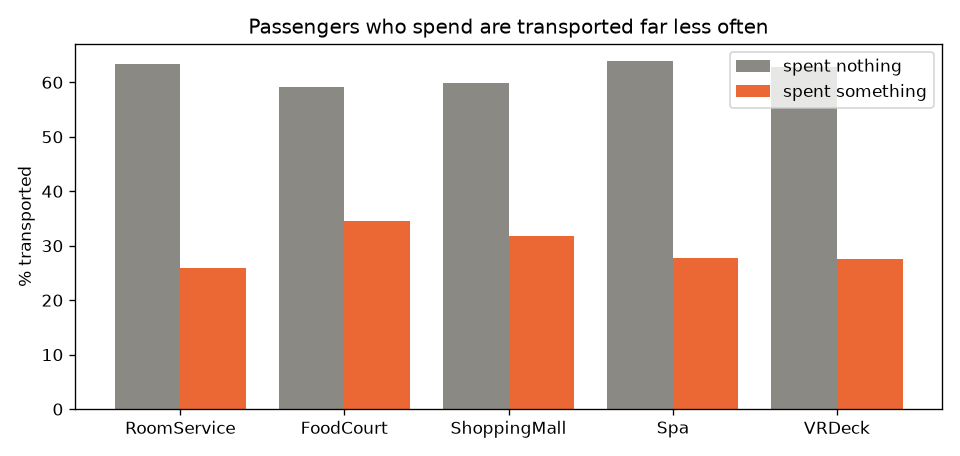
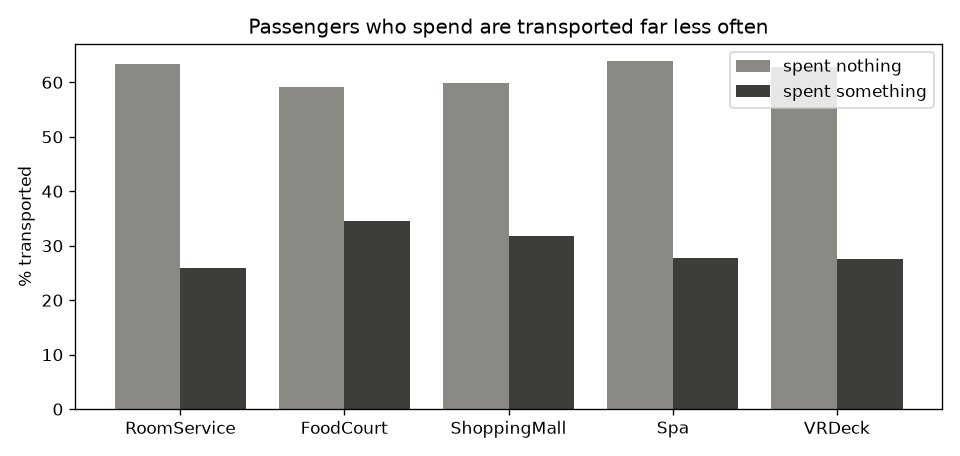
feat(role2): add 01_explore.py EDA with charts and findings
Eight sections, each printing a conclusion and saving a numbered chart;
conclusions saved to results/eda_findings.txt. Confirms 0 travel groups
shared between train and test (GroupKFold rule).

diff --git a/01_explore.py b/01_explore.py
@@ -15,10 +15,12 @@ import numpy as np
 import pandas as pd
 
 from src.config import ID_COL, PLOT_DIR, RESULTS_DIR, SEED, TARGET, TEST_PATH, TRAIN_PATH
+# Shared with features.py so the EDA evidence and the features can't drift apart.
+from src.features import CHILD_AGE, SPEND_COLUMNS
 
 # Team colours (CLAUDE.md rule 8), used the same way in every chart.
 BLUE, ORANGE, GREY = "#2a78d6", "#eb6834", "#8a8984"  # transported / not / neutral
-SPEND_COLS = ["RoomService", "FoodCourt", "ShoppingMall", "Spa", "VRDeck"]
+DARK = "#3d3d3a"  # second neutral, for comparisons that aren't about the target
 CATEGORY_COLS = ["HomePlanet", "CryoSleep", "Destination", "VIP"]
 MIN_GROUP = 30  # categories smaller than this are too noisy to rank
 
@@ -98,7 +100,7 @@ def missing_values(train, test):
     fig, ax = plt.subplots(figsize=(8, 4))
     x = np.arange(len(cols))
     ax.bar(x - 0.2, miss["train_%"], 0.4, color=GREY, label="train")
-    ax.bar(x + 0.2, miss["test_%"], 0.4, color=BLUE, label="test")
+    ax.bar(x + 0.2, miss["test_%"], 0.4, color=DARK, label="test")
     ax.set_xticks(x, cols, rotation=45, ha="right")
     ax.set_ylabel("% missing")
     ax.set_ylim(0, miss[["train_%", "test_%"]].max().max() * 1.3)  # room for the legend
@@ -121,32 +123,43 @@ def data_quality(train, test):
     both = pd.concat([train.drop(columns=TARGET), test])
     dup_rows = train.drop(columns=ID_COL).duplicated().sum()
     dup_ids = both[ID_COL].duplicated().sum()
-    neg = (both[SPEND_COLS] < 0).sum().sum()
+    neg = (both[SPEND_COLUMNS] < 0).sum().sum()
     print(f"duplicate rows (ignoring ID) in train: {dup_rows}; duplicate IDs across files: {dup_ids}")
     print(f"negative spending values: {neg}")
     print(f"age range: {both['Age'].min():.0f}-{both['Age'].max():.0f}, "
           f"age 0: {(both['Age'] == 0).sum()} passengers")
 
-    spend = both[SPEND_COLS].sum(axis=1, min_count=1)
+    # The rules are found on train alone; test only confirms they hold there too.
+    def rule_counts(df):
+        spend = df[SPEND_COLUMNS].sum(axis=1, min_count=1)
+        asleep, kids = df["CryoSleep"] == True, df["Age"] < CHILD_AGE  # noqa: E712 (NaN too)
+        return {"asleep": asleep.sum(), "asleep_spent": (asleep & (spend > 0)).sum(),
+                "kids": kids.sum(), "kids_spent": (kids & (spend > 0)).sum(),
+                "youngest_spender": df.loc[spend > 0, "Age"].min()}
+    tr, te = rule_counts(train), rule_counts(test)
+    print(f"train: CryoSleep=True {tr['asleep']:,}, of whom spent: {tr['asleep_spent']}; "
+          f"under {CHILD_AGE}: {tr['kids']:,}, of whom spent: {tr['kids_spent']}; "
+          f"youngest spender aged {tr['youngest_spender']:.0f}")
+    print(f"test (confirmation): CryoSleep=True {te['asleep']:,}, spent: {te['asleep_spent']}; "
+          f"under {CHILD_AGE}: {te['kids']:,}, spent: {te['kids_spent']}")
+
+    spend = both[SPEND_COLUMNS].sum(axis=1, min_count=1)
     cryo = both["CryoSleep"]
     cryo_spend = ((cryo == True) & (spend > 0)).sum()
     cryo_n = (cryo == True).sum()
     awake_zero = (spend.loc[cryo == False] == 0).mean()
-    kids = both["Age"] < 13
-    kid_spend = (both.loc[kids, SPEND_COLS] > 0).any(axis=1).sum()
-    # Rows whose gaps the logical rules below could fill.
+    kids = both["Age"] < CHILD_AGE
+    # Rows whose gaps the logical rules could fill.
     cryo_fill = (cryo.isna() & (spend > 0)).sum()
-    spend_fill = ((cryo == True) | kids).loc[both[SPEND_COLS].isna().any(axis=1)].sum()
-    print(f"CryoSleep=True passengers: {cryo_n:,}, of whom spent anything: {cryo_spend}")
+    spend_fill = ((cryo == True) | kids).loc[both[SPEND_COLUMNS].isna().any(axis=1)].sum()
     print(f"awake passengers who spent nothing: {awake_zero:.1%}")
-    print(f"children under 13: {kids.sum():,}, of whom spent anything: {kid_spend}")
     print(f"missing CryoSleep with spending > 0: {cryo_fill}; "
-          f"rows with a missing spend column that are asleep or under 13: {spend_fill}")
+          f"rows with a missing spend column that are asleep or under {CHILD_AGE}: {spend_fill}")
 
     fig, ax = plt.subplots(figsize=(6, 3.5))
     groups = {"CryoSleep": both.loc[cryo == True], "Awake": both.loc[cryo == False]}
     shares = [(spend.loc[g.index] > 0).mean() * 100 for g in groups.values()]
-    ax.bar(list(groups), shares, color=[GREY, BLUE])
+    ax.bar(list(groups), shares, color=[GREY, DARK])
     ax.set_ylabel("% who spent anything")
     ax.set_title(f"Nobody in CryoSleep spends money ({cryo_spend} of {cryo_n:,})")
     save(fig, "03_cryosleep_spending.png")
@@ -154,9 +167,11 @@ def data_quality(train, test):
     conclude(f"No duplicate rows ({dup_rows}) or duplicate IDs ({dup_ids}), and no negative "
              f"spending ({neg}). Ages run {both['Age'].min():.0f}-{both['Age'].max():.0f}; the "
              f"{(both['Age'] == 0).sum()} age-0 passengers are plausible babies, so we keep them.")
-    conclude(f"CryoSleep passengers never spend ({cryo_spend} of {cryo_n:,}) and children "
-             f"under 13 never spend ({kid_spend} of {kids.sum():,}). These are reliable "
-             f"row-wise rules: missing spending for them is 0, and anyone who spent > 0 was not "
+    conclude(f"In train, CryoSleep passengers never spend ({tr['asleep_spent']} of "
+             f"{tr['asleep']:,}) and children under {CHILD_AGE} never spend ({tr['kids_spent']} of "
+             f"{tr['kids']:,}; the youngest spender is {tr['youngest_spender']:.0f}). Test confirms "
+             f"both ({te['asleep_spent']} of {te['asleep']:,}; {te['kids_spent']} of {te['kids']:,}). "
+             f"These are reliable row-wise rules: missing spending for them is 0, and anyone who spent > 0 was not "
              f"in CryoSleep. Across both files this fills {cryo_fill} missing CryoSleep values "
              f"and the gaps in {spend_fill} rows with missing spending. "
              f"The reverse does not hold: {awake_zero:.0%} of awake passengers also spent nothing.")
@@ -173,19 +188,19 @@ def train_vs_test(train, test):
     print(cat_diff.round(2).to_string())
 
     # Standardised mean difference: < 0.1 is the usual "negligible" threshold.
-    num = ["Age", "CabinNum"] + SPEND_COLS
+    num = ["Age", "CabinNum"] + SPEND_COLUMNS
     smd = ((train[num].mean() - test[num].mean()) / train[num].std()).abs()
     print(smd.round(3).rename("SMD").to_string())
 
     fig, axes = plt.subplots(1, 2, figsize=(10, 3.5))
     bins = np.arange(0, 81, 5)
     axes[0].hist(train["Age"].dropna(), bins, density=True, alpha=0.6, color=GREY, label="train")
-    axes[0].hist(test["Age"].dropna(), bins, density=True, alpha=0.6, color=BLUE, label="test")
+    axes[0].hist(test["Age"].dropna(), bins, density=True, alpha=0.6, color=DARK, label="test")
     axes[0].set_xlabel("Age")
     axes[0].legend()
     shares = pd.DataFrame({"train": train["HomePlanet"].value_counts(normalize=True),
                            "test": test["HomePlanet"].value_counts(normalize=True)}) * 100
-    shares.plot.bar(ax=axes[1], color=[GREY, BLUE], rot=0)
+    shares.plot.bar(ax=axes[1], color=[GREY, DARK], rot=0)
     axes[1].set_ylabel("% of passengers")
     fig.suptitle("Train and test look alike (age, home planet), so the model should generalise")
     save(fig, "04_train_vs_test.png")
@@ -222,25 +237,25 @@ def feature_vs_target(train):
         ax.tick_params(axis="x", rotation=30)
     for ax in axes[:, 0]:
         ax.set_ylabel("% transported")
-    fig.suptitle("CryoSleep, home planet and deck change the transported rate the most "
+    fig.suptitle("CryoSleep, deck and home planet change the transported rate the most "
                  "(dashed = overall)")
     save(fig, "05_rate_by_category.png")
 
     # Spending: compare spenders and non-spenders per spend column.
     spend_rate = pd.DataFrame({
-        "spent_nothing": [train.loc[train[c] == 0, TARGET].mean() for c in SPEND_COLS],
-        "spent_something": [train.loc[train[c] > 0, TARGET].mean() for c in SPEND_COLS],
-    }, index=SPEND_COLS) * 100
-    total = train[SPEND_COLS].sum(axis=1, min_count=1)
-    skew = train[SPEND_COLS].skew()
+        "spent_nothing": [train.loc[train[c] == 0, TARGET].mean() for c in SPEND_COLUMNS],
+        "spent_something": [train.loc[train[c] > 0, TARGET].mean() for c in SPEND_COLUMNS],
+    }, index=SPEND_COLUMNS) * 100
+    total = train[SPEND_COLUMNS].sum(axis=1, min_count=1)
+    skew = train[SPEND_COLUMNS].skew()
     print(f"\n% transported by spending:\n{spend_rate.round(1).to_string()}")
     print(f"skewness of spending columns:\n{skew.round(1).to_string()}")
 
     fig, ax = plt.subplots(figsize=(8, 3.8))
-    x = np.arange(len(SPEND_COLS))
+    x = np.arange(len(SPEND_COLUMNS))
     ax.bar(x - 0.2, spend_rate["spent_nothing"], 0.4, color=GREY, label="spent nothing")
-    ax.bar(x + 0.2, spend_rate["spent_something"], 0.4, color=ORANGE, label="spent something")
-    ax.set_xticks(x, SPEND_COLS)
+    ax.bar(x + 0.2, spend_rate["spent_something"], 0.4, color=DARK, label="spent something")
+    ax.set_xticks(x, SPEND_COLUMNS)
     ax.set_ylabel("% transported")
     ax.legend()
     ax.set_title("Passengers who spend are transported far less often")
@@ -340,7 +355,7 @@ def summary():
         "Split Cabin into Deck, CabinNum, Side; then drop Cabin, Name and PassengerId (ID-like).",
         "Add GroupSize (count of the travel group within the same file) and TotalSpend.",
         "log1p-transform the five spending columns and TotalSpend (heavy right skew).",
-        "Rule-based filling: CryoSleep=True or Age<13 -> missing spending = 0; "
+        f"Rule-based filling: CryoSleep=True or Age<{CHILD_AGE} -> missing spending = 0; "
         "any spending > 0 -> CryoSleep = False. These are logical rules, not learned statistics.",
         "Remaining gaps (~2% per column) are imputed inside the Pipeline (median / most frequent), "
         "so imputation is learned from training folds only.",
